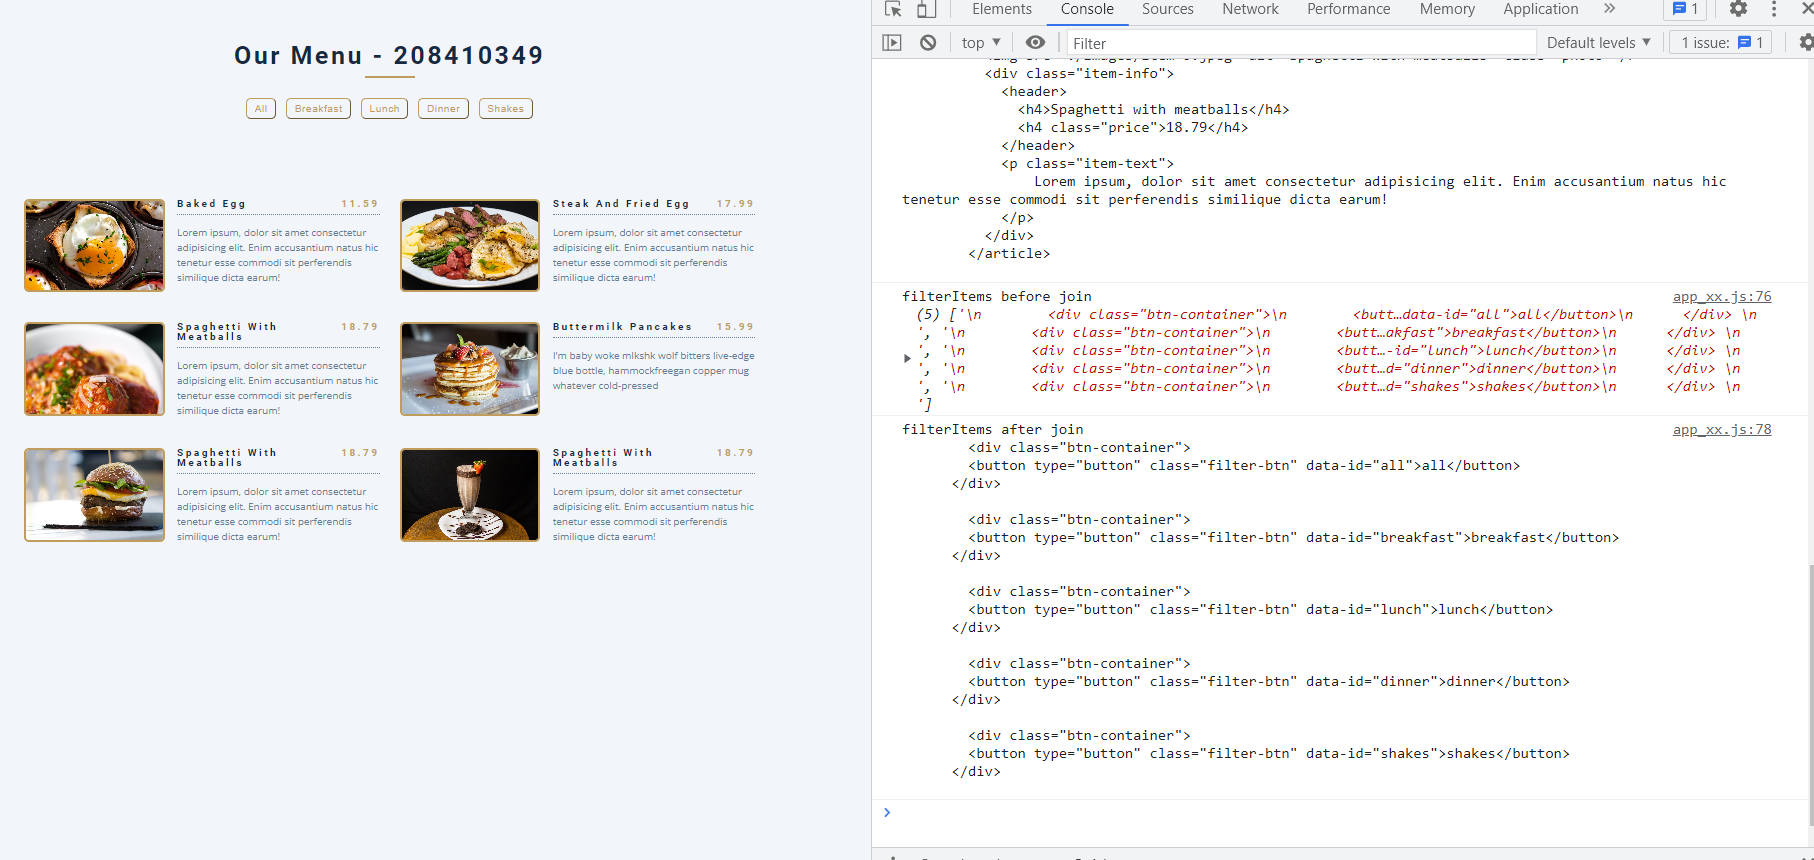
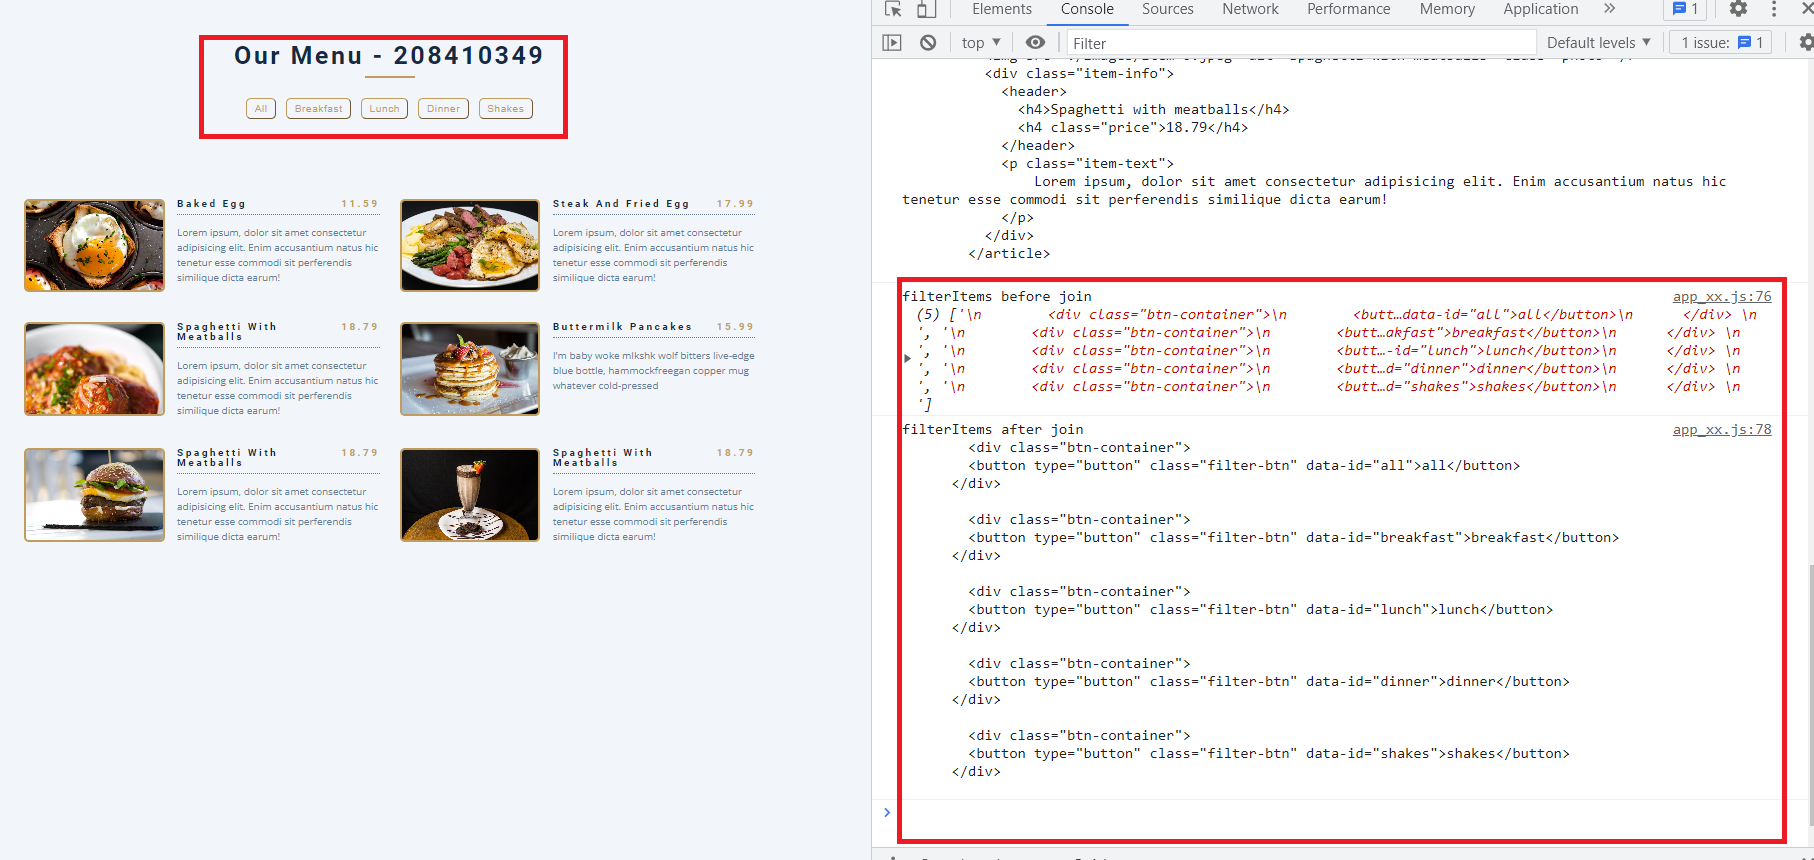
W04-P3: show all filter buttons into html (section-center)including (all, breakfast, lunch, dinner, shakes)

diff --git a/md/w04-menu starter/w04_208410349.md b/md/w04-menu starter/w04_208410349.md
@@ -5,8 +5,17 @@ https://github.com/JKYROC/1111-sweb2-demo-208410349.git
 
 ![w04-p1.png](https://skhsjlwrhersyemrmkib.supabase.co/storage/v1/object/public/javascript/demo-208410349/w04-menu-starter/w04-p1.png)
 
+### W04-P2: show all data in array menu into html (section-center)
+
+![w04-p2-1.png](https://skhsjlwrhersyemrmkib.supabase.co/storage/v1/object/public/javascript/demo-208410349/w04-menu-starter/w04-p2-1.png)
+![w04-p2-2.png](https://skhsjlwrhersyemrmkib.supabase.co/storage/v1/object/public/javascript/demo-208410349/w04-menu-starter/w04-p2-2.png)
+
+### W04-P3: show all filter buttons into html (section-center)including (all, breakfast, lunch, dinner, shakes) 
+
+![w04-p3.png](https://skhsjlwrhersyemrmkib.supabase.co/storage/v1/object/public/javascript/demo-208410349/w04-menu-starter/w04-p3.png)
 
 ```
 $ git log --pretty=format:"%h%x09%an%x09%ad%x09%s" --after="2023-3-08"
 6c83ded JKYROC  Thu Mar 9 19:11:37 2023 +0800   W04-P1: add 3 images of my meals to menu array
+917a202 JKYROC  Thu Mar 9 20:52:48 2023 +0800   W04-P2: show all data in array menu into html (section-center)
 ```
